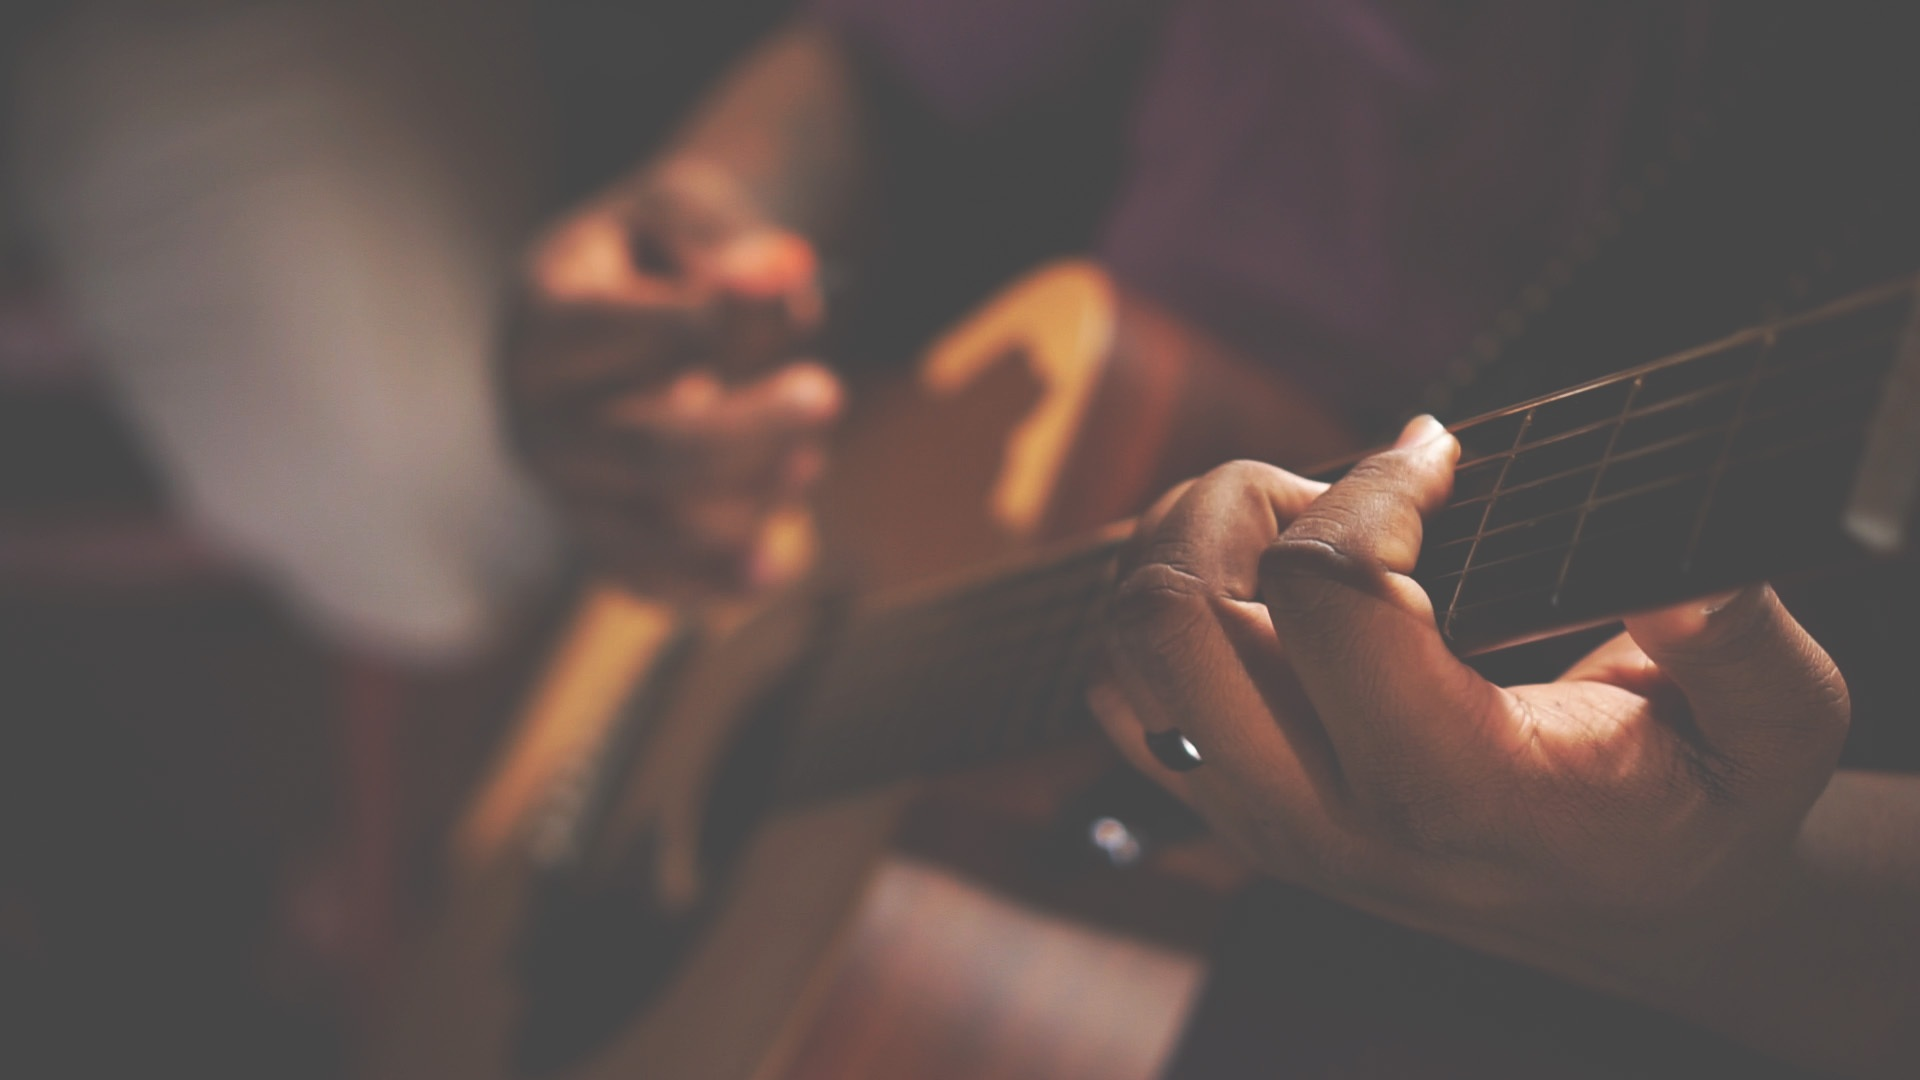
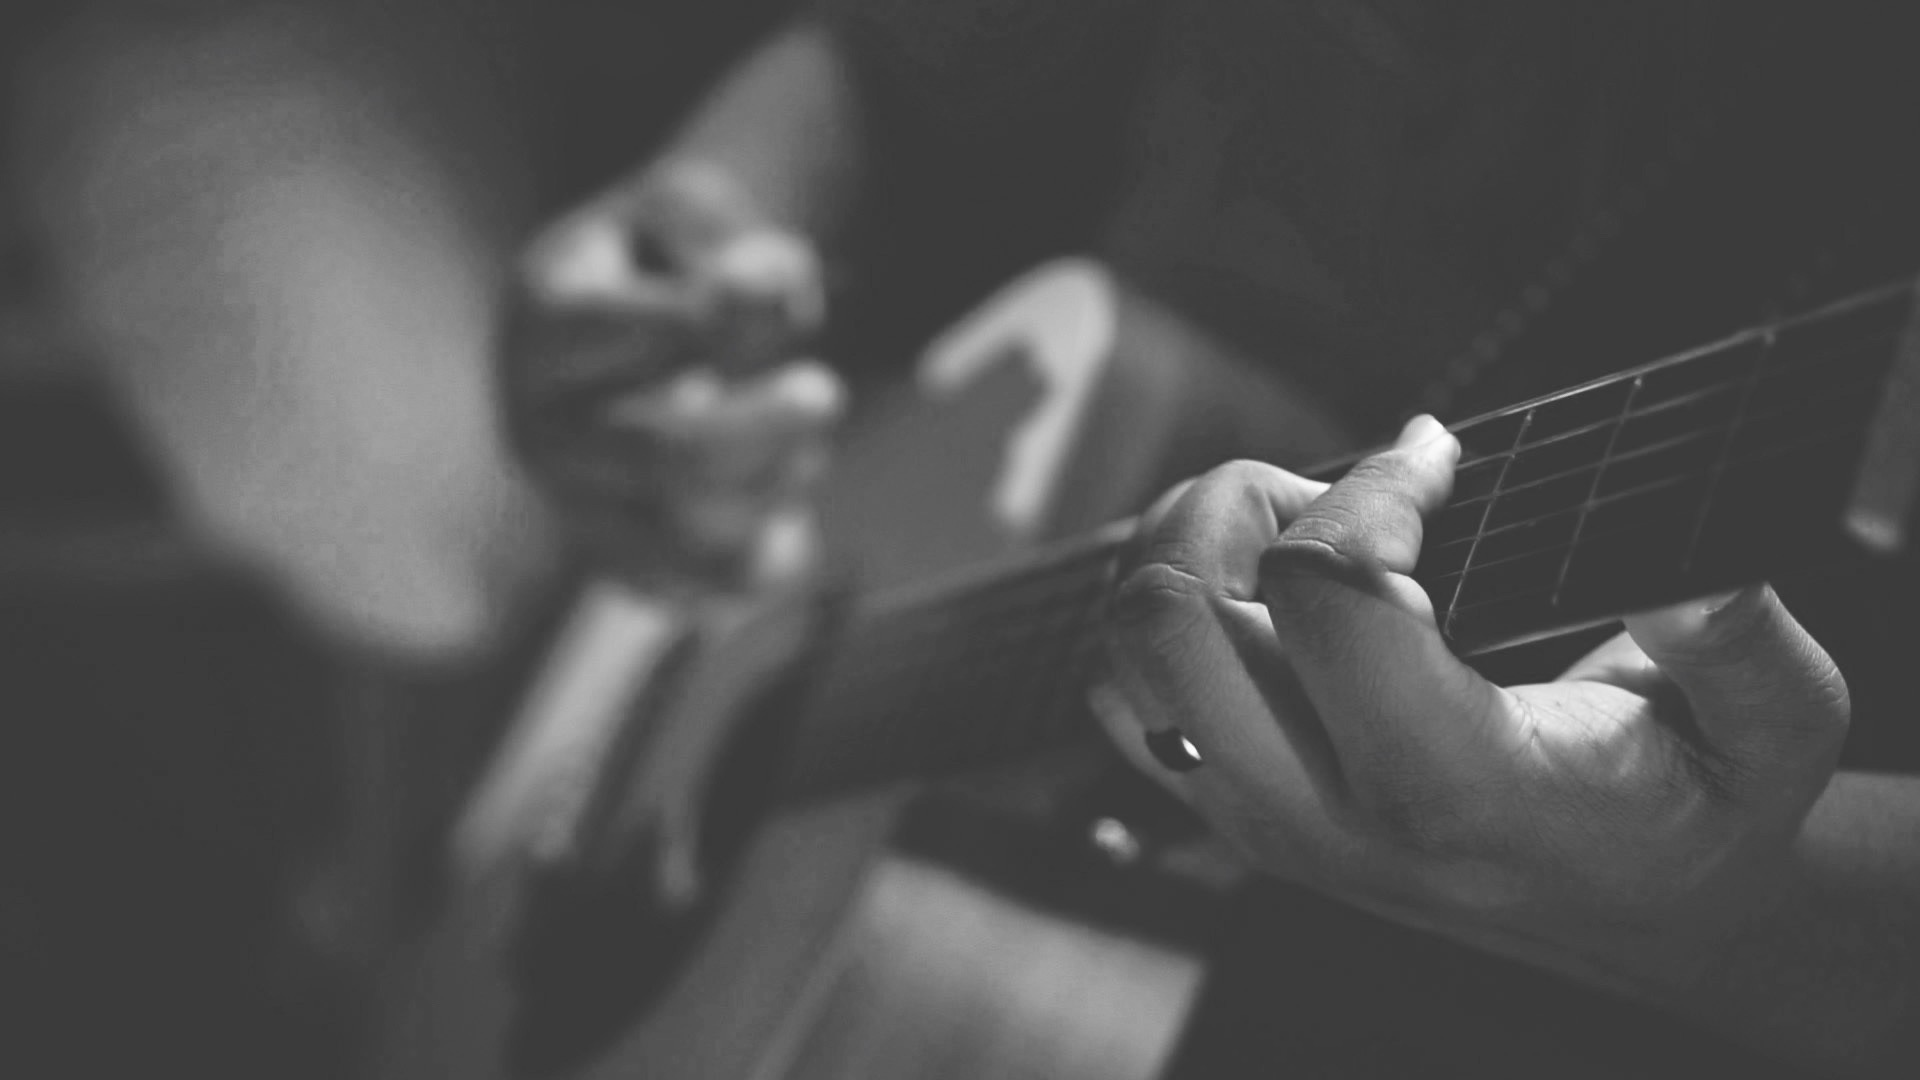
[chg] image to black white; [chg] css; [del] html styling

diff --git a/dashboard.html b/dashboard.html
@@ -13,9 +13,9 @@
 
   <header>
     <section class="header">
-        <div id="header-container" class="container">
-            <div class="header-body">
-                <img id="header-image" src="img/Nerdify.png" width="60" height="20">
+      <div id="header-container" class="container">
+        <div class="header-body">
+                <img id="header-image" src="img/Nerdify.png">
                 <h1 id="header-title" class="title">Nerdify</h1>
                 <!-- <h2 id="header-subtitle-1" class="subtitle">TEXTTTTTTTTTTTTTTTTTTTTTTTTTTTTTTTTTTTTTTTTTTTTTTTT</h2>
                 <h2 id="header-subtitle-2" class="subtitle">TEXTTTTTTTTTTTTTTTTTTTTTTTTTTTTTTTTTTTTTTTTTTTTTTTT</h2> -->

diff --git a/styles.css b/styles.css
@@ -1,10 +1,10 @@
     .header {
-    /* background-image: url("img/LoginImage.jpg"); */
-    background-color: gray; 
+    background-image: url("img/LoginImage.jpg");
     background-position: center center;
     background-repeat: no-repeat;
     background-attachment: fixed;
     background-size: cover;
+    position: relative;
     }
     
     .header-body {
